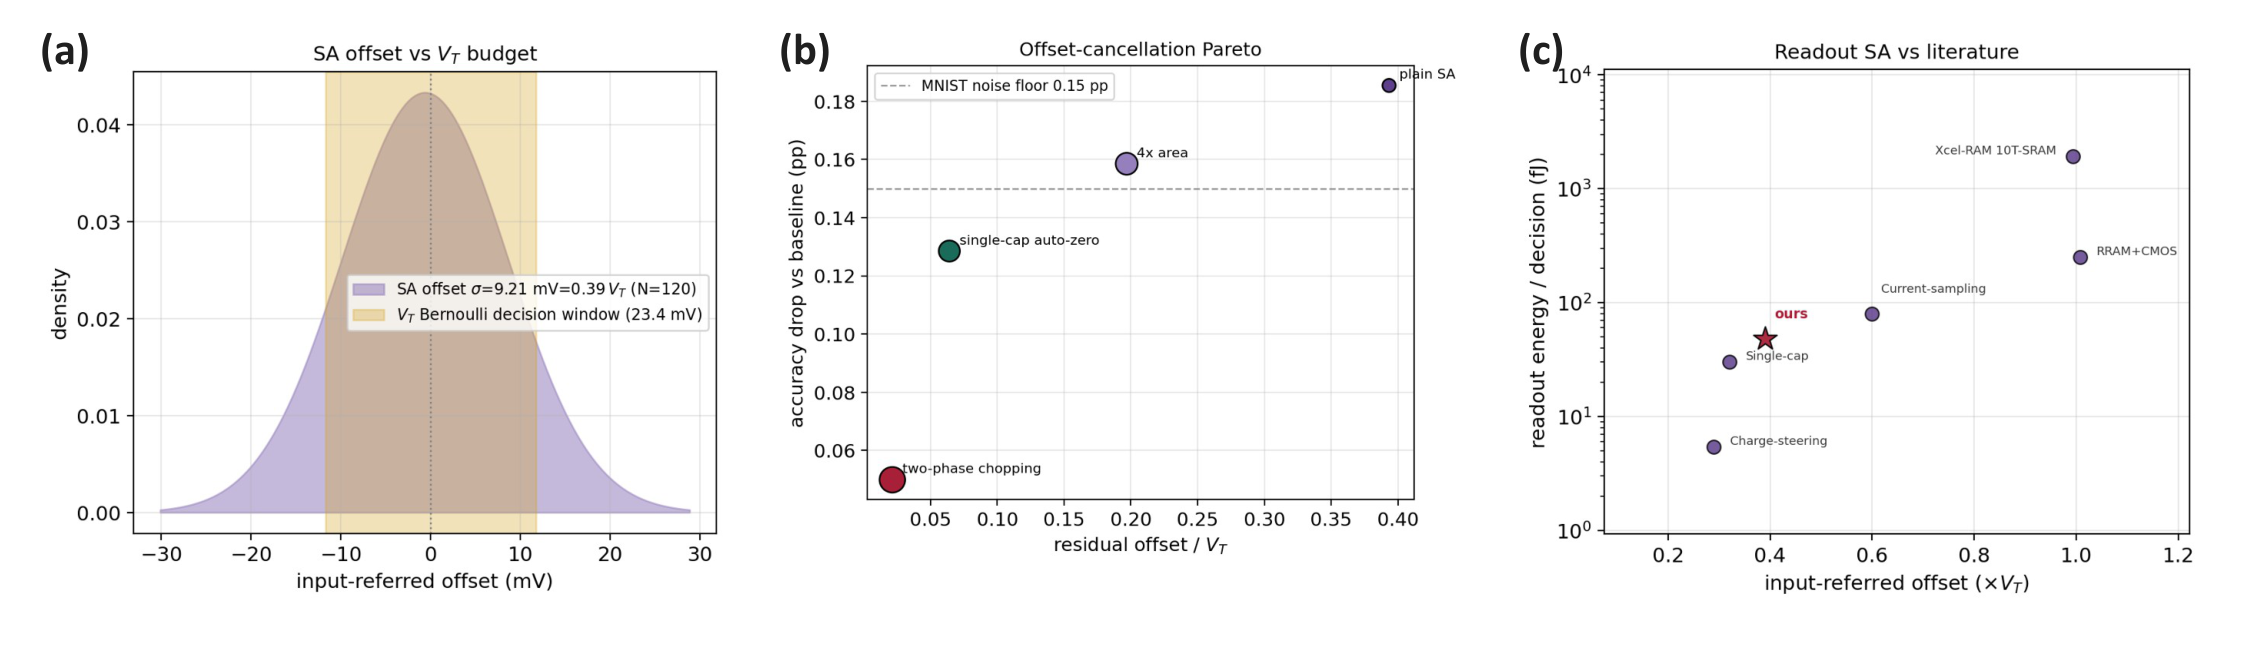
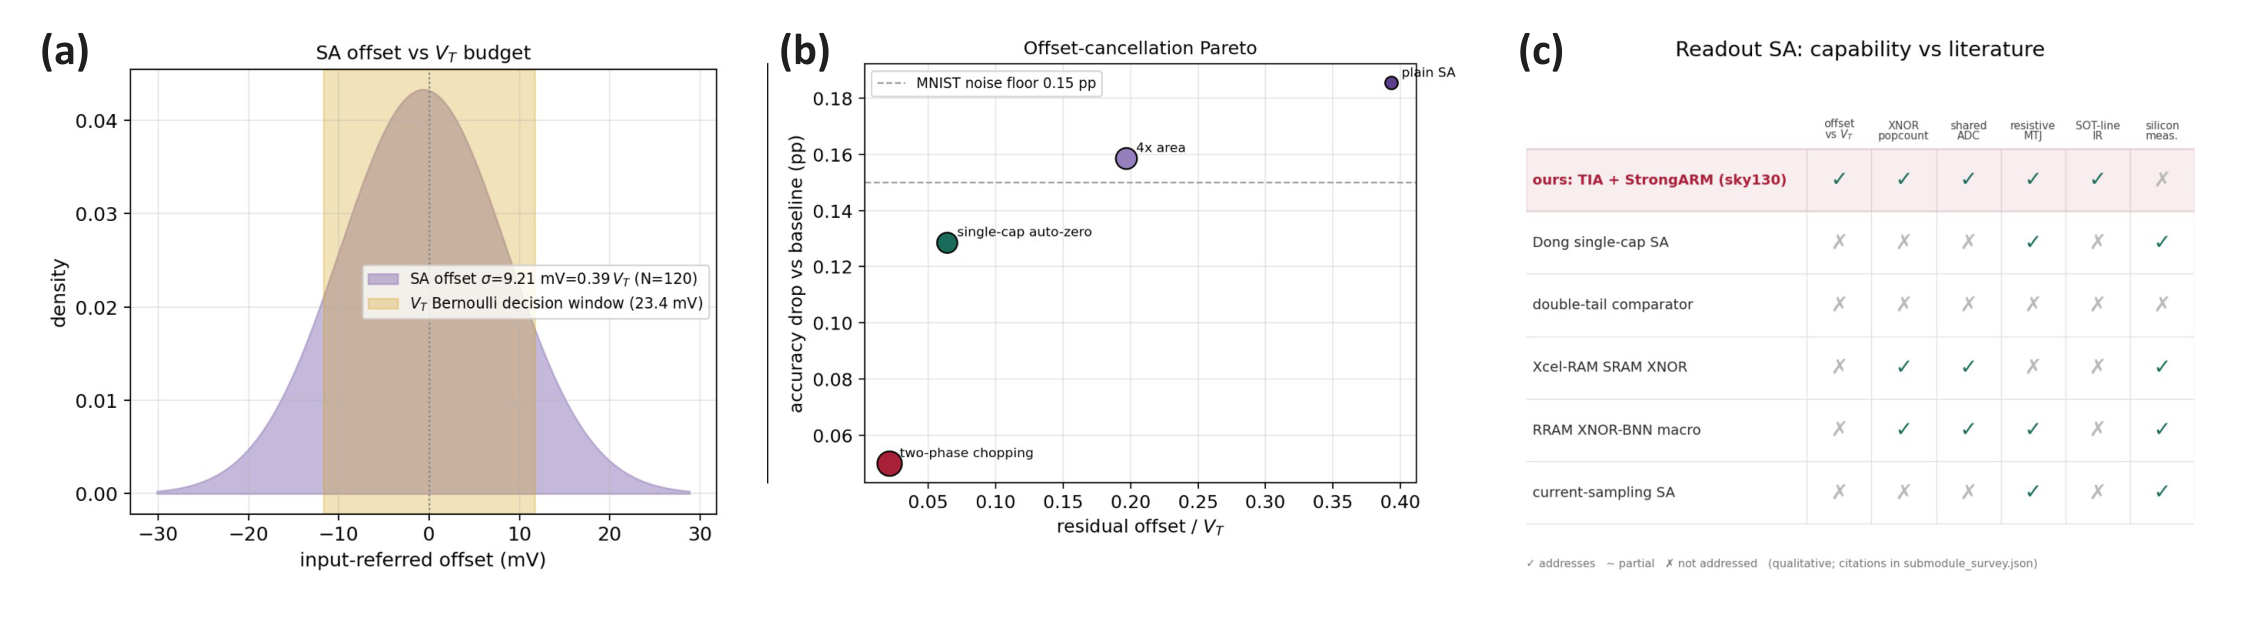
Replace fabricated comparison scatters with verified capability matrices
Web verification of the submodule "vs literature" panels (figs 16/18/5.9c) found
the plotted literature coordinates were overwhelmingly survey ESTIMATES, not
numbers reported by the cited papers (back-of-envelope / placeholders / "not
reported"; one SAR energy copied from our own value), plus 5 wrong-author
citations. All ~19 papers are real.

- gen_supplement_figs.py: replace design_cmp_panel (scatter, fabricated coords)
  with design_cmp_table (qualitative Y/partial/N capability matrix, CAPS) — no
  invented numbers; ours-row highlighted; cited to the dataset.
- submodule_survey.json: add _caveat/_verification integrity notes; correct the
  citations (Z.Chen/Andrulis/Zhang-Yu-Lyu-Li/Chen-Dolecek authors; AICAS DOI;
  Dutta sole author; flag the 19 mV misread).
- chapter04/05.md: rewrite the figs 16/18/5.9 (c) captions + in-text refs from the
  old 2-axis scatter to the capability matrix (no extrapolated numbers).
- eda/design_survey/README.md (new): maps each "ours" number to its EDA
  script+JSON+command, and documents the literature provenance/caveats.
- The "ours" points remain EDA-derived; the chapter-body prose (>60% reduction,
  6.9 mV, 1.914 pJ/op, 65->100%@3Ω) checks out and is unchanged.

diff --git a/eda/gen_supplement_figs.py b/eda/gen_supplement_figs.py
@@ -57,89 +57,88 @@ def jload(p):
     return json.loads(Path(p).read_text(encoding="utf-8"))
 
 
-def _short_ref(lbl, ours):
-    if ours:
-        return "ours (auto-zero)" if "auto-zero" in lbl.lower() else "ours"
-    w = lbl.replace(",", " ").replace(":", " ").split()
-    return f"{w[0]} {w[1]}" if len(w) > 1 and w[1][:2].isdigit() else w[0]
+# Qualitative capability matrices (replace the earlier scatter, whose literature
+# coordinates were largely survey estimates/placeholders). Each cell states whether
+# a design ADDRESSES a task-relevant capability -- Y=yes, N=no, ~=partial -- derived
+# from the (web-verified) survey descriptions, with NO invented numbers. Citations
+# for each row live in eda/design_survey/submodule_survey.json (see the README).
+CAPS = {
+    "readout_sa": {
+        "cols": ["offset\nvs $V_T$", "XNOR\npopcount", "shared\nADC",
+                 "resistive\nMTJ", "SOT-line\nIR", "silicon\nmeas."],
+        "rows": [
+            ("ours: TIA + StrongARM (sky130)", True, "Y Y Y Y Y N"),
+            ("Dong single-cap SA", False, "N N N Y N Y"),
+            ("double-tail comparator", False, "N N N N N N"),
+            ("Xcel-RAM SRAM XNOR", False, "N Y Y N N Y"),
+            ("RRAM XNOR-BNN macro", False, "N Y Y Y N Y"),
+            ("current-sampling SA", False, "N N N Y N Y"),
+        ],
+    },
+    "write_dac_ir": {
+        "cols": ["per-row\nIR pred.", "DAC +\nrail", "write\nenergy",
+                 "binary\n$P_{sw}$", "$V_{th}$\ntrim", "sMTJ\ndevice"],
+        "rows": [
+            ("ours: R-string DAC + IR pre-distort", True, "Y Y Y Y Y Y"),
+            ("Truong parasitic-adapted", False, "~ N N N N N"),
+            ("Zhu positional boost", False, "~ N N N N N"),
+            ("Kim water-filling", False, "N N Y N N N"),
+            ("Chen-Dolecek 1S1R model", False, "N N N N N N"),
+            ("VECOM encode + SA trim", False, "N ~ N N Y N"),
+            ("Yoon sMTJ p-bit driver", False, "N ~ N Y ~ Y"),
+        ],
+    },
+    "sar_adc": {
+        "cols": ["extr.\ncomp E", "offset\nvs $V_T$", "col.\nshared",
+                 "charge\nSAR", "comp/DAC\nsplit", "RC/CIM"],
+        "rows": [
+            ("ours: col-shared SAR", True, "Y Y Y Y Y Y"),
+            ("Liu-Zhang SAR/SS", False, "N N Y ~ N Y"),
+            ("PICO-RAM TD-ADC (Z. Chen)", False, "N ~ ~ N N Y"),
+            ("Andrulis ADC model", False, "N N N N ~ Y"),
+            ("Dutta StrongARM-SAR", False, "~ N N Y N N"),
+            ("Zhong memristor RC", False, "N N N N N Y"),
+            ("image-sensor SAR/SS", False, "N N Y ~ N N"),
+        ],
+    },
+}
 
 
-def _place_labels(ax, items):
-    """Place each label next to its own data point, greedily avoiding collisions with
-    other labels, the markers, and the axes edge. Adds a short leader only when a label
-    has to be displaced. `items`: dicts with x, y (data), text, color, weight, fontsize."""
-    fig = ax.figure
-    fig.canvas.draw()
-    rend = fig.canvas.get_renderer()
-    P = fig.dpi / 72.0
-    disp = [ax.transData.transform((it["x"], it["y"])) for it in items]
-    marker = [(x - 5, y - 5, x + 5, y + 5) for (x, y) in disp]
-    ab = ax.get_window_extent(rend)
-    axbox = (ab.x0, ab.y0, ab.x1, ab.y1)
-
-    def ovl(a, b):
-        dx = min(a[2], b[2]) - max(a[0], b[0]); dy = min(a[3], b[3]) - max(a[1], b[1])
-        return dx * dy if dx > 0 and dy > 0 else 0.0
-
-    cands = [(9, 3, "left", "center"), (-9, 3, "right", "center"), (5, 10, "left", "bottom"),
-             (5, -12, "left", "top"), (-5, 10, "right", "bottom"), (-5, -12, "right", "top"),
-             (14, -2, "left", "center"), (-14, -2, "right", "center"),
-             (3, 18, "left", "bottom"), (3, -20, "left", "top")]
-    placed = []
-    for i in sorted(range(len(items)), key=lambda i: -disp[i][1]):
-        it = items[i]; px, py = disp[i]
-        w = 0.58 * it["fontsize"] * len(it["text"]) * P
-        h = 1.25 * it["fontsize"] * P
-        best, bestpen = None, 1e30
-        for (dx, dy, ha, va) in cands:
-            x0 = px + dx * P - (0 if ha == "left" else w)
-            y0 = py + dy * P - (0 if va == "bottom" else (h if va == "top" else h / 2))
-            box = (x0, y0, x0 + w, y0 + h)
-            pen = sum(ovl(box, pb) for pb in placed)
-            pen += sum(ovl(box, marker[j]) for j in range(len(items)) if j != i)
-            pen += 0.6 * (w * h - ovl(box, axbox))   # prefer staying inside the axes
-            if pen < bestpen:
-                bestpen, best = pen, (dx, dy, ha, va, box)
-            if pen <= 0.0:
-                break
-        dx, dy, ha, va, box = best
-        placed.append(box)
-        lead = bestpen > 1.0 or (dx * dx + dy * dy) > 230
-        ax.annotate(it["text"], xy=(it["x"], it["y"]), textcoords="offset points",
-                    xytext=(dx, dy), ha=ha, va=va, fontsize=it["fontsize"], color=it["color"],
-                    fontweight=it["weight"], zorder=6,
-                    arrowprops=dict(arrowstyle="-", color="0.6", lw=0.5, shrinkB=2) if lead else None)
-
-
-def design_cmp_panel(ax, key, title, xlabel, ylabel, logy=False):
-    """Plot the submodule design-space comparison (ours vs surveyed literature) on
-    `ax`, labelled DIRECTLY at each point (no legend): markers that share an x are
-    jittered apart and every design name is placed beside its own marker with
-    collision avoidance. Reads the multi-agent survey JSON."""
-    sv = jload(REPO / "eda" / "design_survey" / "submodule_survey.json")
-    pts = json.loads(next(s for s in sv["submodules"] if s["key"] == key)["compare"]["figure_data"])["points"]
-    xs = [p["x"] for p in pts]
-    xr = (max(xs) - min(xs)) or 1.0
-    groups = {}
-    for i, p in enumerate(pts):
-        groups.setdefault(round(p["x"], 6), []).append(i)
-    xj = {}
-    for idxs in groups.values():
-        for k, i in enumerate(idxs):
-            xj[i] = pts[i]["x"] + (k - (len(idxs) - 1) / 2.0) * 0.020 * xr
-    for i, p in enumerate(pts):
-        ours = bool(p.get("is_ours"))
-        ax.scatter(xj[i], p["y"], s=180 if ours else 55, marker="*" if ours else "o",
-                   c=RED if ours else PURPLE, edgecolor="black", linewidth=0.8,
-                   zorder=5 if ours else 3, alpha=0.95 if ours else 0.85)
-    if logy:
-        ax.set_yscale("log")
-    ax.set_xlabel(xlabel); ax.set_ylabel(ylabel); ax.set_title(title); ax.margins(0.30)
-    items = [dict(x=xj[i], y=p["y"], text=_short_ref(p["label"], bool(p.get("is_ours"))),
-                  color=RED if p.get("is_ours") else "0.2",
-                  weight="bold" if p.get("is_ours") else "normal",
-                  fontsize=7.4 if p.get("is_ours") else 6.6) for i, p in enumerate(pts)]
-    _place_labels(ax, items)
+def design_cmp_table(ax, key, title):
+    """Render the submodule capability matrix (ours vs surveyed literature) as a
+    Y/N/~ table on `ax` -- a qualitative comparison with NO fabricated coordinates.
+    Each row's full citation is in submodule_survey.json (web-verified)."""
+    d = CAPS[key]
+    cols, rows = d["cols"], d["rows"]
+    nr, nc = len(rows), len(cols)
+    ax.set_axis_off(); ax.set_xlim(0, 1); ax.set_ylim(0, 1)
+    ax.set_title(title, fontsize=10.5, pad=6)
+    w_lab = 0.42                      # left design-name column
+    x0 = w_lab; w_cell = (1.0 - w_lab) / nc
+    y_hi, y_lo = 0.84, 0.10
+    h_row = (y_hi - y_lo) / nr
+    sym = {"Y": ("✓", GREEN), "N": ("✗", "0.72"), "~": ("∼", GOLD)}
+    for j in range(nc + 1):          # vertical gridlines
+        ax.plot([x0 + j * w_cell] * 2, [y_lo, y_hi], color="0.88", lw=0.5, zorder=0)
+    for i in range(nr + 1):          # horizontal gridlines
+        ax.plot([0, 1], [y_hi - i * h_row] * 2, color="0.88", lw=0.5, zorder=0)
+    for j, c in enumerate(cols):     # column headers
+        ax.text(x0 + (j + 0.5) * w_cell, y_hi + 0.015, c, ha="center", va="bottom",
+                fontsize=5.4, color="0.25", linespacing=0.9)
+    for i, (label, ours, cells) in enumerate(rows):
+        yc = y_hi - (i + 0.5) * h_row
+        if ours:
+            ax.add_patch(plt.Rectangle((0, y_hi - (i + 1) * h_row), 1, h_row,
+                                       color=RED, alpha=0.08, zorder=0))
+        ax.text(0.01, yc, label, ha="left", va="center", fontsize=7.0,
+                color=RED if ours else "0.15", fontweight="bold" if ours else "normal")
+        for j, tok in enumerate(cells.split()):
+            s, col = sym[tok]
+            ax.text(x0 + (j + 0.5) * w_cell, yc, s, ha="center", va="center",
+                    fontsize=10.5, color=col, fontweight="bold")
+    ax.text(0.0, 0.02, "✓ addresses   ∼ partial   ✗ not addressed   "
+            "(qualitative; citations in submodule_survey.json)",
+            ha="left", va="center", fontsize=5.6, color="0.45")
 
 
 # ---------- Fig S1: device-model validation (LLG vs behavioral sigmoid) ----------
@@ -199,8 +198,7 @@ def fig2():
     ax[1].set_xlabel(r"residual offset / $V_T$"); ax[1].set_ylabel("accuracy drop vs baseline (pp)")
     ax[1].set_title("Offset-cancellation Pareto")
     ax[1].legend(fontsize=8.5)
-    design_cmp_panel(ax[2], "readout_sa", "Readout SA vs literature",
-                     "input-referred offset (×$V_T$)", "readout energy / decision (fJ)", logy=True)
+    design_cmp_table(ax[2], "readout_sa", "Readout SA: capability vs literature")
     fig.tight_layout()
     save_panels(fig, ax, "ch04_16")
     fig.savefig(OUT / "Chapter04_local_16.png", dpi=200, bbox_inches="tight")
@@ -272,8 +270,7 @@ def fig4():
     ax[1].set_ylabel(r"energy advantage vs digital ESN ($\times$)")
     ax[1].set_title("RC energy advantage vs digital ESN")
     ax[1].legend(fontsize=9)
-    design_cmp_panel(ax[2], "sar_adc", "SAR readout vs literature",
-                     "SA offset (×$V_T$; 0 = n/r)", "comparator energy (fJ)", logy=True)
+    design_cmp_table(ax[2], "sar_adc", "SAR readout: capability vs literature")
     fig.tight_layout()
     save_panels(fig, ax, "ch05_09")
     fig.savefig(OUT / "Chapter05_local_09.png", dpi=200, bbox_inches="tight")
@@ -316,10 +313,8 @@ def fig5():
     ax[1].set_xlabel("cell row in column"); ax[1].set_ylabel(r"write probability $P_\mathrm{sw}$")
     ax[1].set_title(r"Pre-distortion holds $P_\mathrm{sw}$ on target")
     ax[1].legend(fontsize=7.5, loc="center left")
-    # (c) write-path design space vs surveyed literature (direct in-panel labels)
-    design_cmp_panel(ax[2], "write_dac_ir", "Write-path vs literature",
-                     "residual remote-row write error on N=256 (mV)",
-                     "circuit-layer completeness (0–5)")
+    # (c) write-path capability matrix vs surveyed literature (qualitative; no fabricated coords)
+    design_cmp_table(ax[2], "write_dac_ir", "Write path: capability vs literature")
     fig.tight_layout()
     save_panels(fig, ax, "ch04_18")
     fig.savefig(OUT / "Chapter04_local_18.png", dpi=200, bbox_inches="tight")

diff --git a/eda/design_survey/README.md b/eda/design_survey/README.md
@@ -1,0 +1,36 @@
+# Submodule design-space comparison — data provenance & reproduction
+
+This directory backs the "vs literature" panel (c) of figures 16, 18 and 5.9 (the readout sense-amplifier, the write-driver/DAC, and the column-shared SAR readout). `submodule_survey.json` is the raw multi-agent literature survey; this note records where every number comes from and how to reproduce it.
+
+## Integrity status (2026-06-30)
+
+The panels are now a **qualitative capability matrix** (Y / partial / N coverage of the task-relevant capabilities), rendered by `CAPS` + `design_cmp_table()` in [`../gen_supplement_figs.py`](../gen_supplement_figs.py). They contain **no fabricated coordinates**. The earlier scatter plots were retired because a web-verification pass found that most literature axis values in `submodule_survey.json` were survey ESTIMATES, not numbers reported by the cited papers (back-of-envelope, placeholders, "not reported", and in one case a value copied from our own design). Those JSON coordinates are kept only as the raw survey record — see the `_caveat` / `_verification` fields at the top of the JSON.
+
+All ~19 cited papers were confirmed to exist (no hallucinated papers). Citations corrected after verification: PICO-RAM author B. Zhang → **Z. Chen** (IEEE JSSC 2025); ADC-energy model Krishnan/Cao → **Andrulis et al. (MIT)**; image-sensor Kim/Hong/Kwon → **Zhang/Yu/Lyu/Li** (IEICE E101.A:434–437, 2018); 1S1R Cassuto/Ben-Hur → **Chen & Dolecek**; Liu/Zhang add AICAS 2023 DOI; Dutta is a sole author; Yoon author **Caçoilo** (chapter footnote fixed). The capability-matrix Y/N/partial marks are derived from those (verified) paper descriptions.
+
+## Our data points — EDA-derived, reproducible
+
+Every "ours" number (used in the capability matrix, in panels (a)/(b), and in the chapter §4.6 / §5.5 prose) is produced by a committed script and stored in a committed JSON. The circuit design source (Xschem `.sch` + symbols, SPICE netlists, the Verilog-A device model, extraction scripts) is committed under `eda/hero/schematics/`, `eda/hero/*.spice`, `eda/models/smtj_sot.va`, and `eda/extraction/`.
+
+| Our number | Value | Script | Output JSON |
+|---|---|---|---|
+| Readout SA input-referred offset | 0.39 V_T (9.21 mV / 23.4 mV, N=120 MC) | `eda/hero/run_offset_mc.py` | `eda/hero/offset_mc_summary.json` |
+| Readout SA decision energy | ~48 fJ (post-layout 23–74 fJ) | `eda/hero/sa_postlayout.py` | `eda/hero/sa_postlayout_summary.json` |
+| Offset-cancellation Pareto / auto-zero (0.064 V_T) | plain SA Pareto-optimal at V_in≥0.5 V | `eda/hero/pareto_offset_cancellation.py` | `eda/hero/pareto_offset_cancellation_summary.json` |
+| Readout TIA mapping (offset → ~2.5 popcount) | R_TI=613 Ω @ F=1024 | `eda/hero/readout_mapping.py` | `eda/hero/readout_mapping_summary.json` |
+| Write-path residual remote-row error | ~12 mV (N=256, IR pre-distortion) | `eda/hero/ir_aware_writedac.py` | `eda/hero/ir_aware_writedac_summary.json` |
+| Write-line IR drop | ~16.5% of R_SOT @ N=256 (met2) | `eda/extraction/writeline/run_extresist.sh` | `eda/extraction/writeline/ir_drop_summary.json` |
+| Write-DAC topology choice (R-string; current-steering INL ~1.7 LSB) | resistor-string, 6–7 bit | `eda/hero/write_dac_trim.py` | `eda/hero/write_dac_summary.json` |
+| SAR comparator energy (reuses StrongARM) | ~48 fJ; cap-DAC switching | `eda/testbenches/sar_capdac_energy.py` | `eda/testbenches/sar_capdac_energy_summary.json` |
+| Device dual-model agreement (behavioral vs LLG) | ΔV_th ≈ 0.2 mV | `eda/testbenches/llg_validate.py` | `eda/testbenches/llg_validate_summary.json` |
+
+Pure-Python scripts (`pareto_offset_cancellation.py`, `ir_aware_writedac.py`, `readout_mapping.py`, `write_dac_trim.py`) run with the repo's Python directly. The extraction/transistor-level ones (`sa_postlayout.py`, `run_extresist.sh`, `sar_capdac_energy.py`, `llg_validate.py`) need the open-source sky130 + ngspice/Magic environment described in [`../README.md`](../README.md) and [`../hero/layout/README.md`](../hero/layout/README.md).
+
+## Regenerating the figures
+
+```
+python eda/gen_supplement_figs.py     # writes letter-free panels to figures/panels/
+python eda/build_ppt_figs.py          # composes panels into the chapter decks, exports article/figs/
+```
+
+The capability matrix is data-light (Y/N/partial per the table in `gen_supplement_figs.py::CAPS`); to change a verdict, edit `CAPS` and keep the corresponding citation/justification in `submodule_survey.json` consistent.

diff --git a/article/chapter05.md b/article/chapter05.md
@@ -111,7 +111,7 @@ Mackey-Glass单步预测NRMSE低至0.006，随预测步长增至约0.04，表明
 
 ![图5.9 储备池读出的能量—记忆容量协同](figs/Chapter05_local_09.png)
 
-**图5.9** 储备池读出的能量协同与设计空间。(a) 等能量前沿：记忆容量对每步能量、颜色为模数转换位数；读出主导能量 (比较器即使低分辨也占近九成)，但比较器项随位数线性增长，故分辨率的能量惩罚温和——支撑以列共享摊销比较器、而非降低分辨率为读出能量杠杆。(b) 计入物理模数转换读出后，sMTJ-RC相对数字ESN的能量优势 (逐节点／列共享、不同位数)，落在约30–35×。(c) 列共享逐次逼近读出与近期文献多方案对比：灵敏放大失调比$$V_T$$对比较器能量 (对数)，本文唯一同时给出已提取的比较器能量与按$$V_T$$预算的失调 (数据来自多智能体arXiv/开放获取调研)。
+**图5.9** 储备池读出的能量协同与文献能力对照。(a) 等能量前沿：记忆容量对每步能量、颜色为模数转换位数；读出主导能量 (比较器即使低分辨也占近九成)，但比较器项随位数线性增长，故分辨率的能量惩罚温和——支撑以列共享摊销比较器、而非降低分辨率为读出能量杠杆。(b) 计入物理模数转换读出后，sMTJ-RC相对数字ESN的能量优势 (逐节点／列共享、不同位数)，落在约30–35×。(c) 列共享逐次逼近读出与近期文献多方案的能力矩阵：逐项标注各设计是否给出已提取的比较器能量、按$$V_T$$窗预算的失调、列共享摊销、纯电荷再分配SAR、比较器/电容DAC分项及RC/CIM场景，本文为唯一同时具备者 (定性对照，不含外推数值；各方案引文见submodule_survey数据集)。
 
 ## 5.6 本章小结
 
